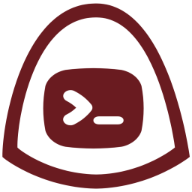
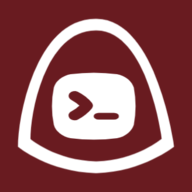
stuff

diff --git a/index.html b/index.html
@@ -14,6 +14,9 @@
 		<link rel="icon" type="image/png" sizes="32x32" href="/favicon-32x32.png">
 		<link rel="icon" type="image/png" sizes="16x16" href="/favicon-16x16.png">
 		<link rel="manifest" href="/site.webmanifest">
+		<link rel="mask-icon" href="/safari-pinned-tab.svg" color="#691b20">
+		<meta name="msapplication-TileColor" content="#691b20">
+		<meta name="theme-color" content="#691b20">
 		<noscript><link rel="stylesheet" href="assets/css/noscript.css" /></noscript>
 	</head>
 	<body class="is-preload">

diff --git a/html_code.html b/html_code.html
@@ -1,0 +1,7 @@
+<link rel="apple-touch-icon" sizes="180x180" href="/apple-touch-icon.png">
+<link rel="icon" type="image/png" sizes="32x32" href="/favicon-32x32.png">
+<link rel="icon" type="image/png" sizes="16x16" href="/favicon-16x16.png">
+<link rel="manifest" href="/site.webmanifest">
+<link rel="mask-icon" href="/safari-pinned-tab.svg" color="#691b20">
+<meta name="msapplication-TileColor" content="#691b20">
+<meta name="theme-color" content="#691b20">

diff --git a/README.md b/README.md
@@ -1,1 +1,21 @@
-# unifiedcommand.github.io
+# Your Favicon Package
+
+This package was generated with [RealFaviconGenerator](https://realfavicongenerator.net/) [v0.16](https://realfavicongenerator.net/change_log#v0.16)
+
+## Install instructions
+
+To install this package:
+
+Extract this package in the root of your web site. If your site is <code>http://www.example.com</code>, you should be able to access a file named <code>http://www.example.com/favicon.ico</code>.
+
+Insert the following code in the `head` section of your pages:
+
+    <link rel="apple-touch-icon" sizes="180x180" href="/apple-touch-icon.png">
+    <link rel="icon" type="image/png" sizes="32x32" href="/favicon-32x32.png">
+    <link rel="icon" type="image/png" sizes="16x16" href="/favicon-16x16.png">
+    <link rel="manifest" href="/site.webmanifest">
+    <link rel="mask-icon" href="/safari-pinned-tab.svg" color="#691b20">
+    <meta name="msapplication-TileColor" content="#691b20">
+    <meta name="theme-color" content="#691b20">
+
+*Optional* - Check your favicon with the [favicon checker](https://realfavicongenerator.net/favicon_checker)
